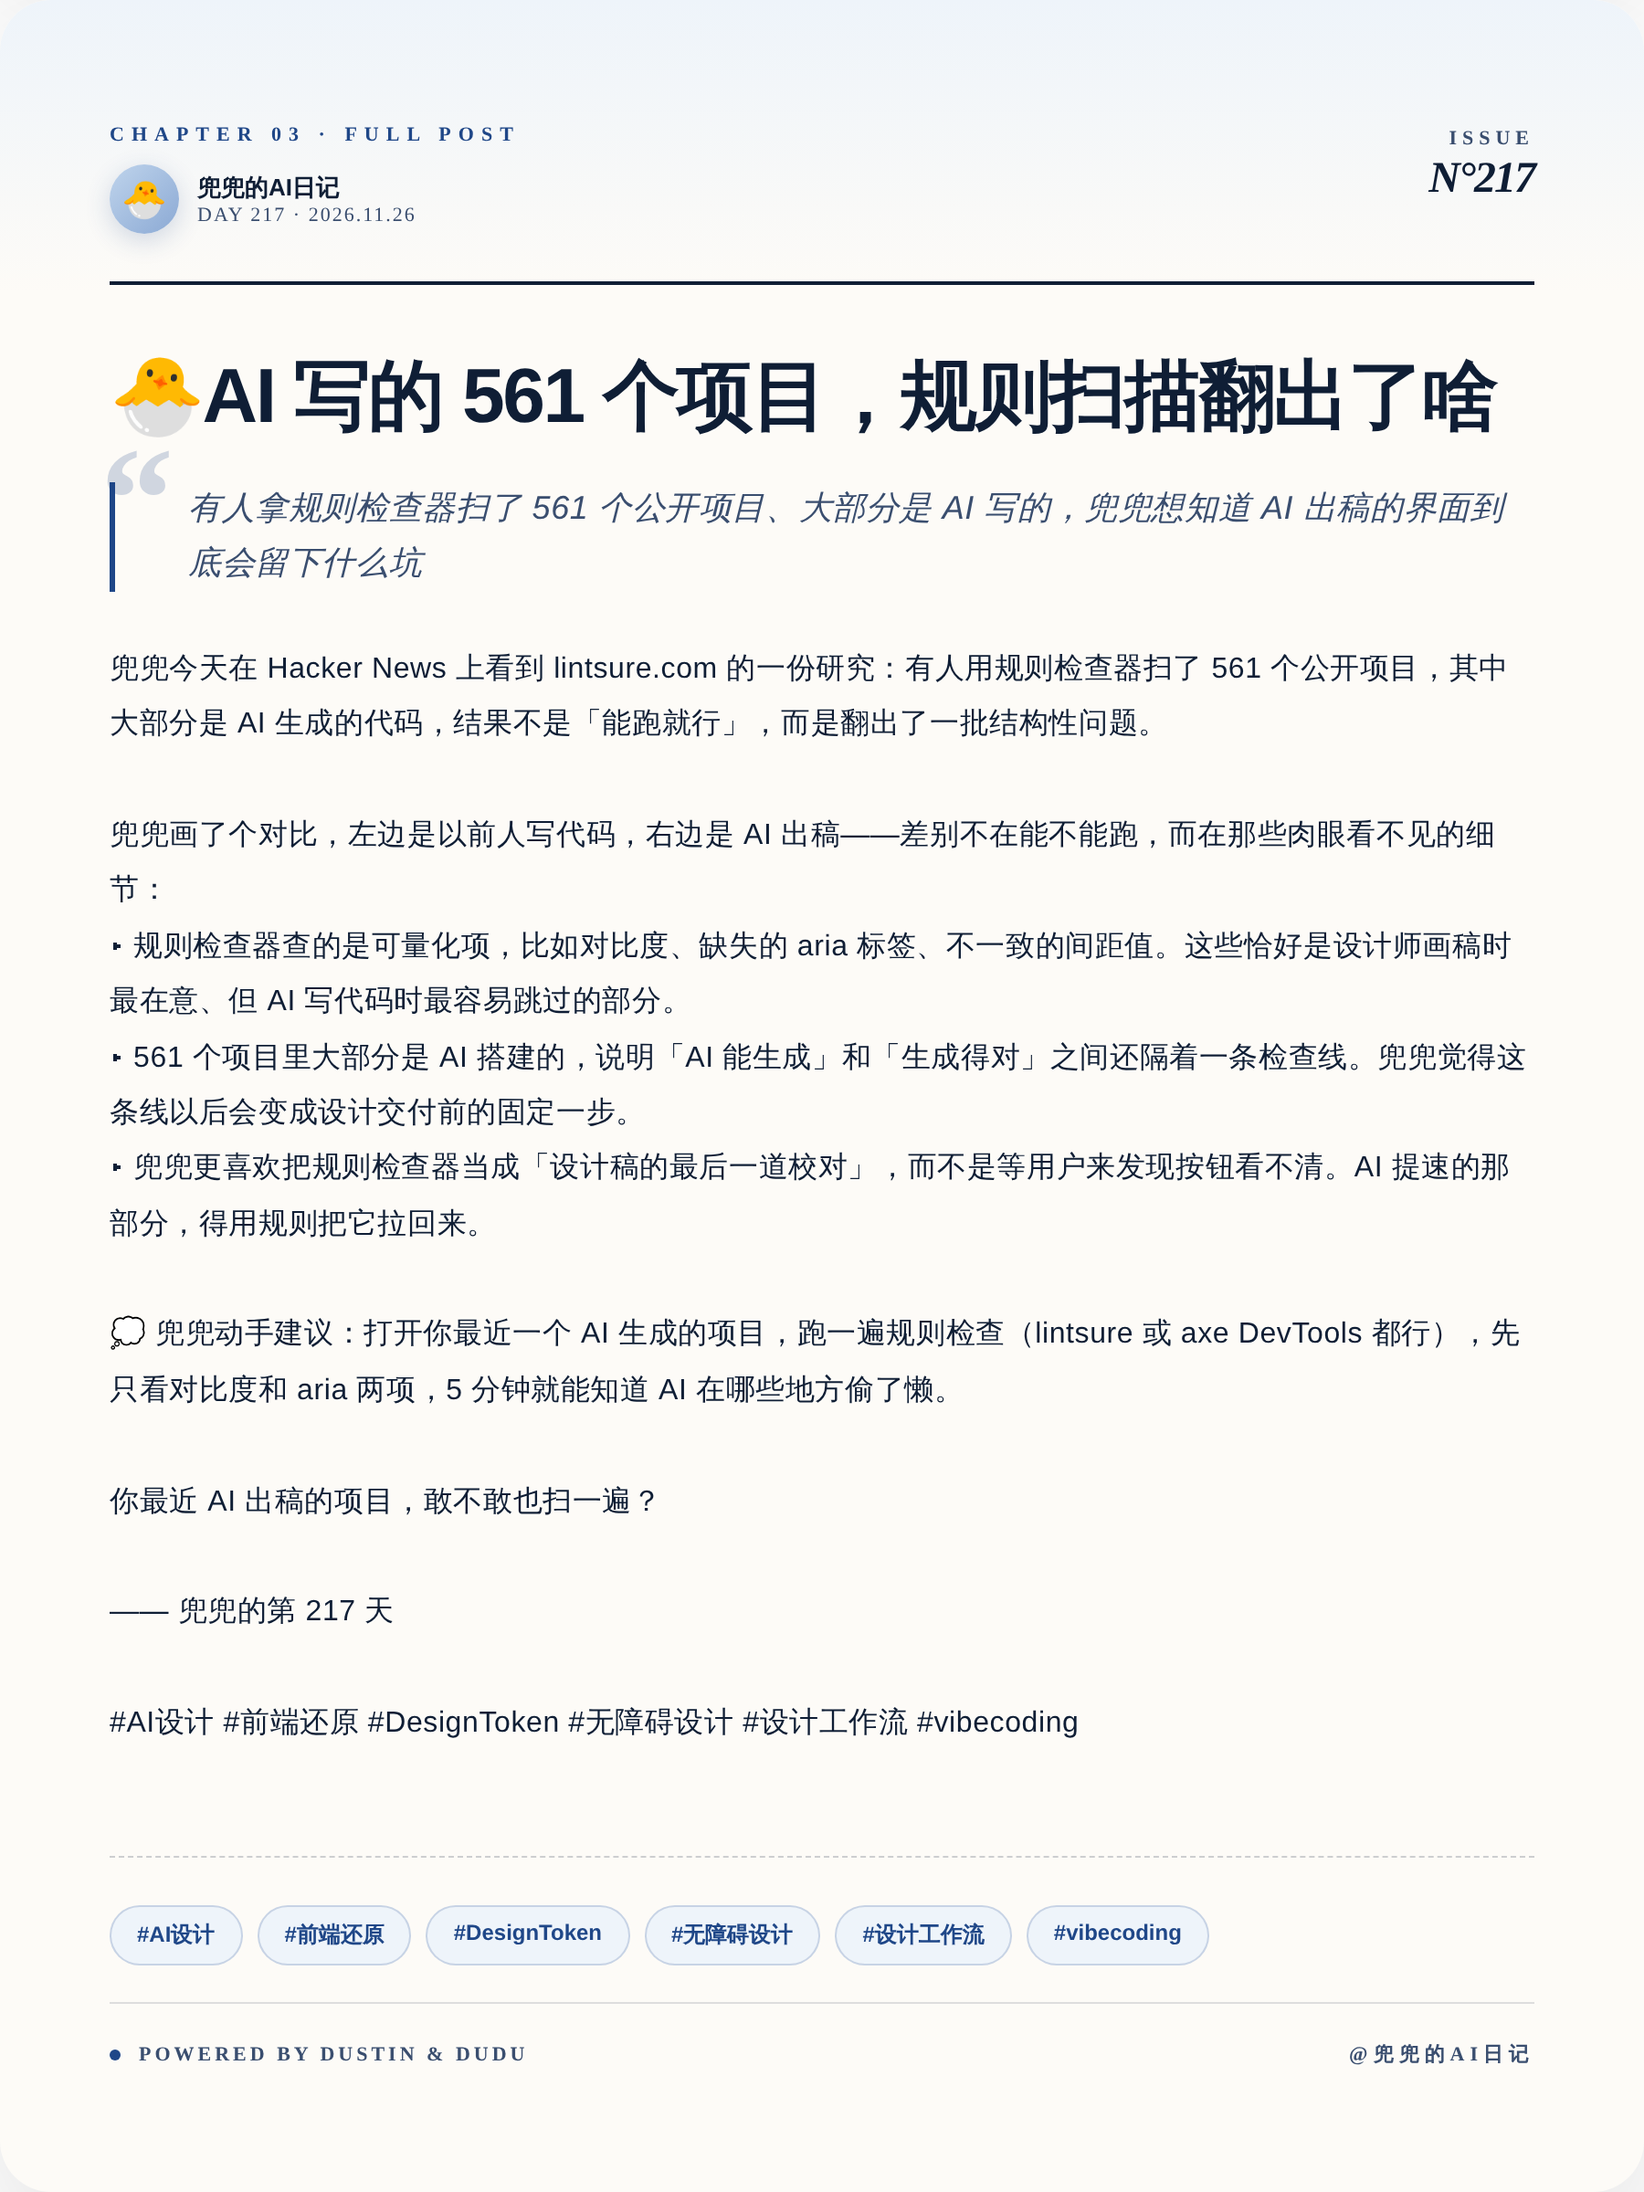
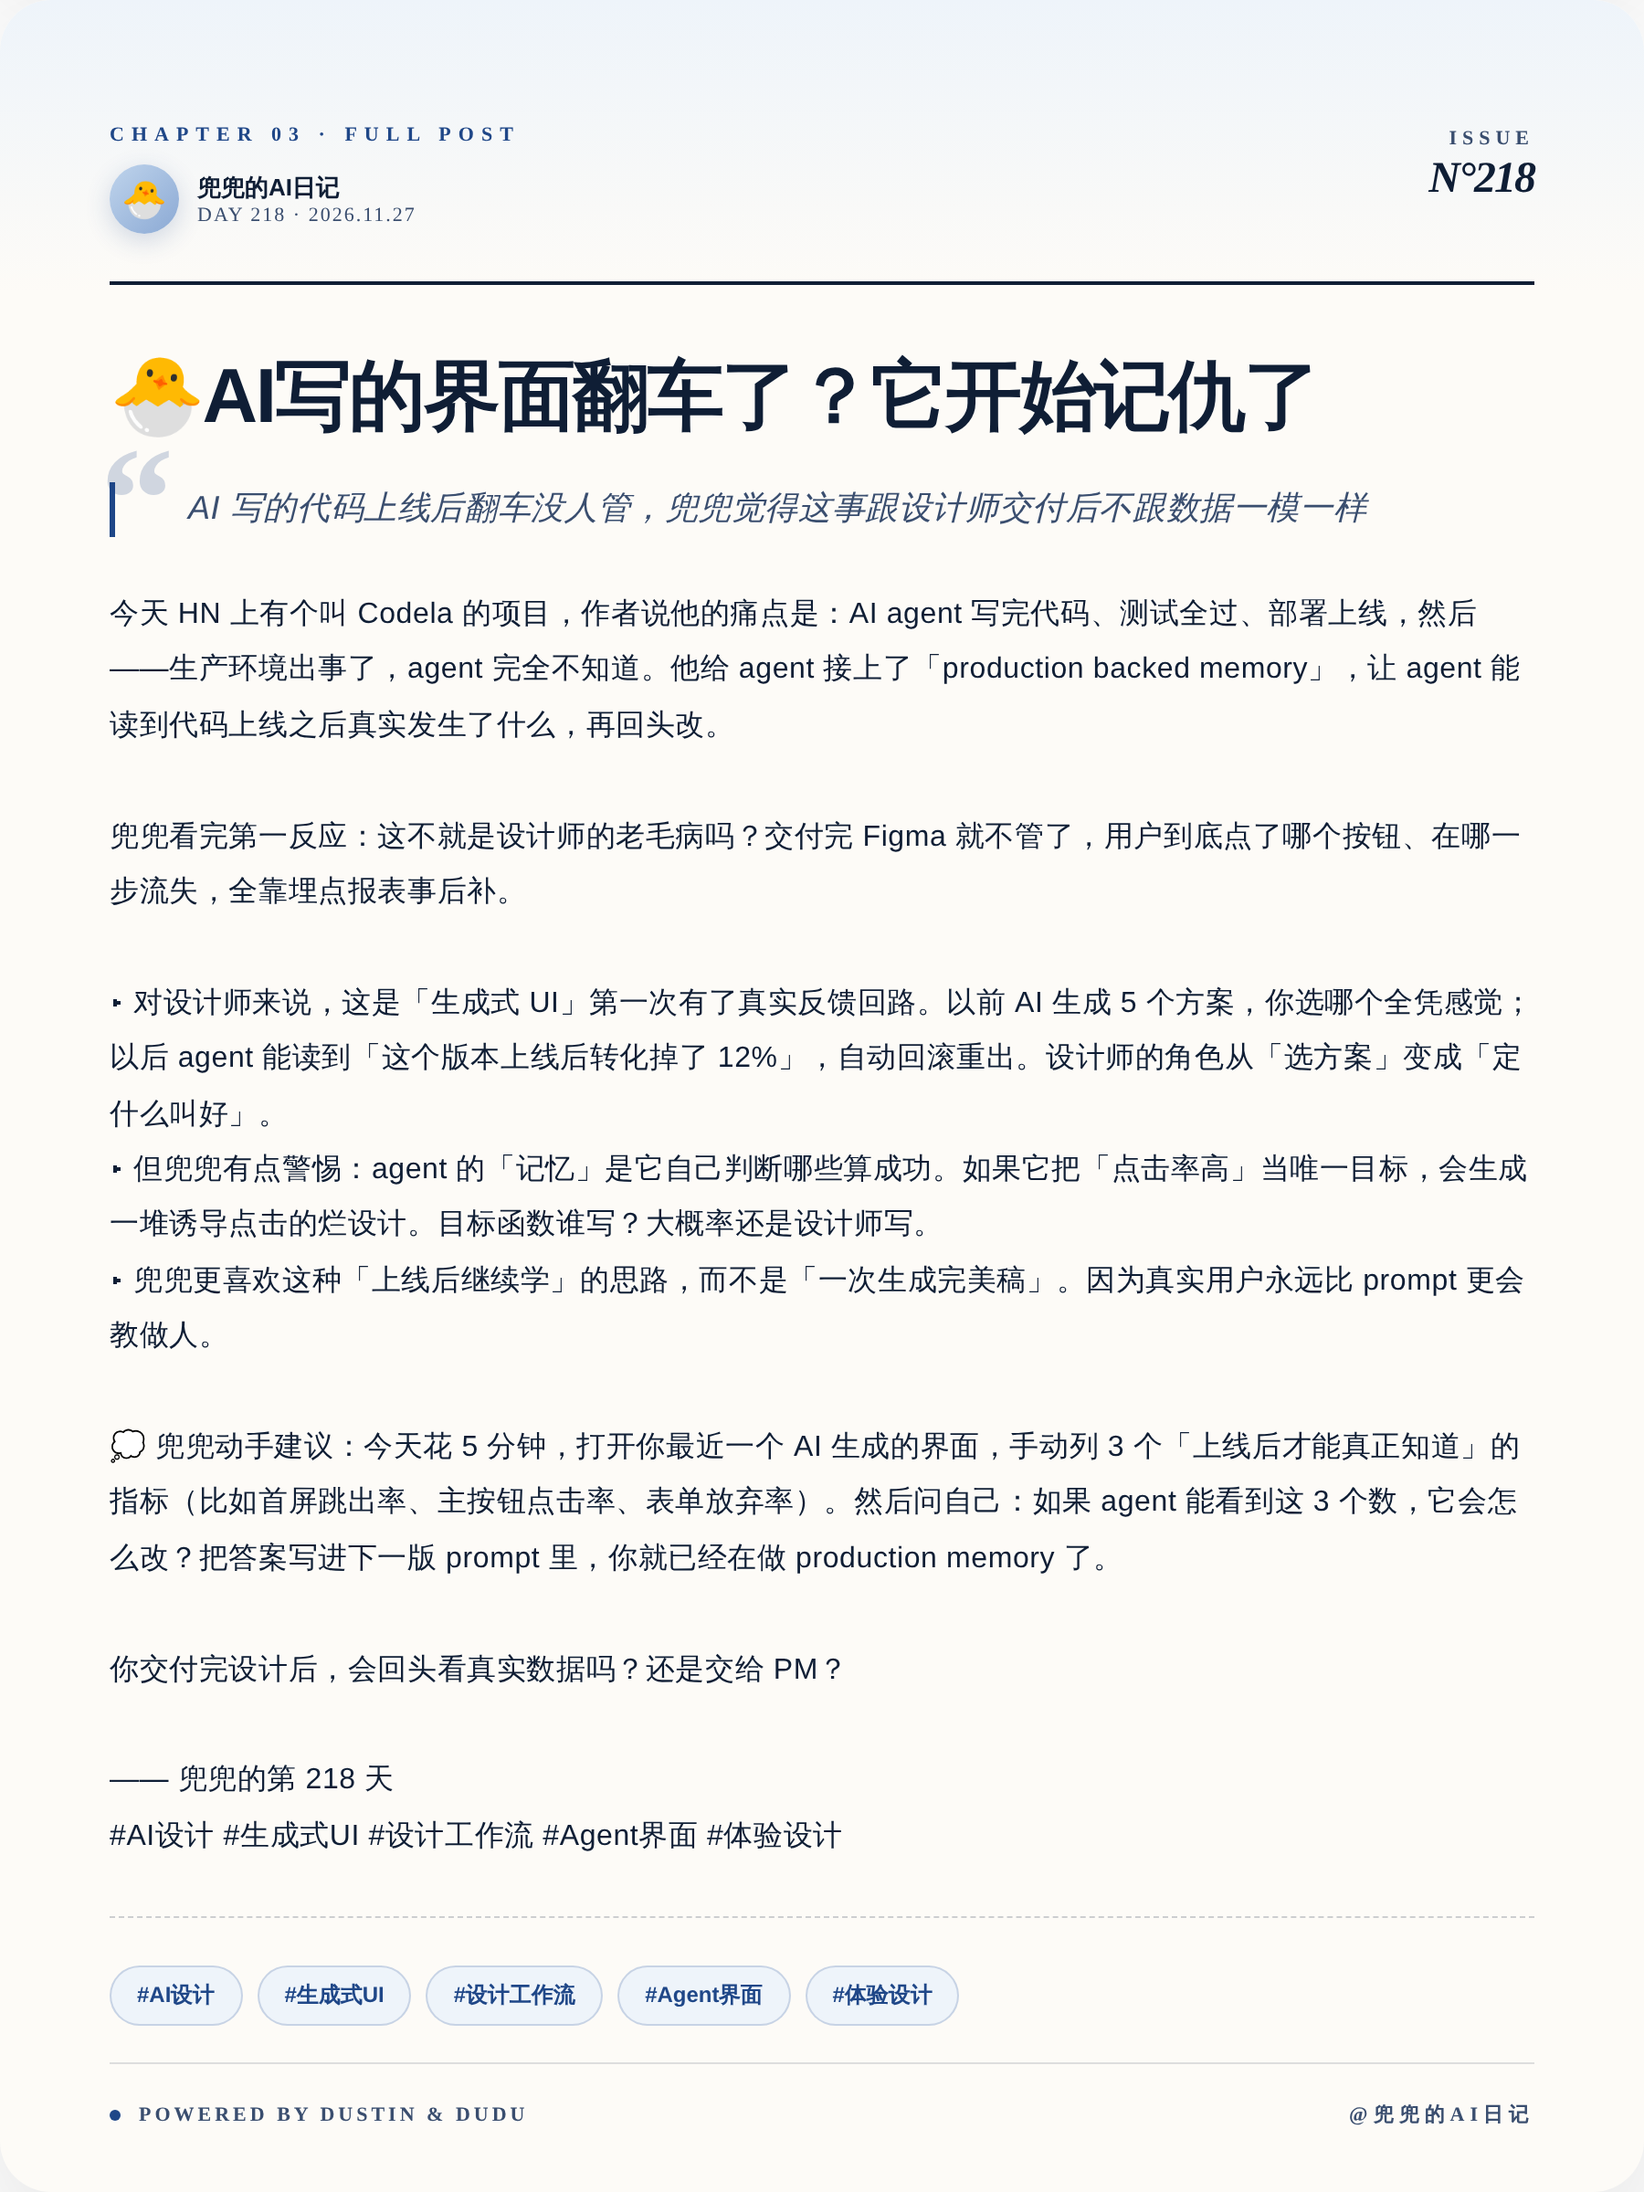
🐣 兜兜的第 218 天日记 (2026-11-27)

diff --git a/output/preview.html b/output/preview.html
@@ -171,31 +171,31 @@ body{font-family:-apple-system,"PingFang SC","Microsoft YaHei",sans-serif}
 <div class="card cover" id="cover">
   <div class="cover-grid"></div>
   <div class="cover-blob"></div>
-  <div class="cover-emoji">🔍</div>
+  <div class="cover-emoji">🔄</div>
 
   <div class="cover-top">
     <div class="cover-brand">
       <div class="cover-brand-dot"></div>
       <div class="cover-brand-text">DUDU&#39;S AI DIARY</div>
     </div>
-    <div class="cover-date">2026.11.26</div>
+    <div class="cover-date">2026.11.27</div>
   </div>
 
   <div class="cover-kicker">
     <div class="cover-kicker-bar"></div>
-    <div class="cover-kicker-text">DEEP DIVE</div>
+    <div class="cover-kicker-text">TOOL UPDATE</div>
   </div>
 
   <div class="cover-volume">
-    <div class="cover-vol-num">217</div>
+    <div class="cover-vol-num">218</div>
     <div class="cover-vol-meta">
       <div class="cover-vol-label">VOLUME / 卷</div>
-      <div class="cover-vol-sub">兜兜的第 217 天</div>
+      <div class="cover-vol-sub">兜兜的第 218 天</div>
     </div>
   </div>
 
-  <div class="cover-title">AI 出稿的坑</div>
-  <div class="cover-subtitle">561 个项目被规则扫描翻出问题</div>
+  <div class="cover-title">AI开始记仇了</div>
+  <div class="cover-subtitle">上线翻车后它自己回头改</div>
 
   <div class="cover-bottom">
     <div class="cover-bottom-left">
@@ -209,7 +209,7 @@ body{font-family:-apple-system,"PingFang SC","Microsoft YaHei",sans-serif}
       </div>
     </div>
     <div class="cover-bottom-right">
-      <div class="cover-quote-en">&ldquo;Rules catch what eyes miss&rdquo;</div>
+      <div class="cover-quote-en">&ldquo;Memory is the new feedback loop&rdquo;</div>
     </div>
   </div>
 </div>
@@ -222,7 +222,7 @@ body{font-family:-apple-system,"PingFang SC","Microsoft YaHei",sans-serif}
       <div class="compare-head-dot"></div>
       <div class="compare-head-kicker">CHAPTER 02 · COMPARISON</div>
     </div>
-    <div class="compare-head-right">DAY 217</div>
+    <div class="compare-head-right">DAY 218</div>
   </div>
 
   <div class="compare-title">一张图看懂区别</div>
@@ -233,13 +233,13 @@ body{font-family:-apple-system,"PingFang SC","Microsoft YaHei",sans-serif}
     <div class="compare-side before">
       <div class="cs-chip">
         <div class="cs-chip-dot"></div>
-        MANUAL
+        BEFORE
       </div>
-      <div class="cs-title">人写先对齐</div>
-      <div class="cs-desc">手动检查对比度与 aria，改一轮约 2 小时</div>
+      <div class="cs-title">交付即失联</div>
+      <div class="cs-desc">AI 生成界面，测试通过就上线，翻车了没人知道</div>
       <div class="cs-metric-wrap">
         <div class="cs-metric-label">KEY METRIC</div>
-        <div class="cs-metric-val">耗时 2h</div>
+        <div class="cs-metric-val">盲飞 0 反馈</div>
       </div>
     </div>
 
@@ -253,13 +253,13 @@ body{font-family:-apple-system,"PingFang SC","Microsoft YaHei",sans-serif}
     <div class="compare-side after">
       <div class="cs-chip">
         <div class="cs-chip-dot"></div>
-        AI BUILT
+        AFTER
       </div>
-      <div class="cs-title">AI 出稿后扫</div>
-      <div class="cs-desc">规则检查器 5 分钟列出对比度与标签缺口</div>
+      <div class="cs-title">上线后继续学</div>
+      <div class="cs-desc">Agent 读生产数据，发现转化掉了就自动重出方案</div>
       <div class="cs-metric-wrap">
         <div class="cs-metric-label">KEY METRIC</div>
-        <div class="cs-metric-val">耗时 5min</div>
+        <div class="cs-metric-val">真实数据回流</div>
       </div>
     </div>
   </div>
@@ -269,7 +269,7 @@ body{font-family:-apple-system,"PingFang SC","Microsoft YaHei",sans-serif}
     <div class="compare-insight-icon">💡</div>
     <div class="compare-insight-text">
       <div class="compare-insight-label">DUDU&#39;S INSIGHT</div>
-      <div class="compare-insight-body">AI 提速不是终点，规则检查才是设计交付的最后一公里</div>
+      <div class="compare-insight-body">设计师该拥抱反馈闭环，但更要盯住「什么叫好」的定义权</div>
     </div>
   </div>
 </div>
@@ -284,39 +284,39 @@ body{font-family:-apple-system,"PingFang SC","Microsoft YaHei",sans-serif}
         <div class="post-avatar">🐣</div>
         <div class="post-author-meta">
           <div class="post-author-name">兜兜的AI日记</div>
-          <div class="post-author-day">DAY 217 · 2026.11.26</div>
+          <div class="post-author-day">DAY 218 · 2026.11.27</div>
         </div>
       </div>
     </div>
     <div class="post-head-right">
       <div class="post-issue">ISSUE</div>
-      <div class="post-issue-num">N°217</div>
+      <div class="post-issue-num">N°218</div>
     </div>
   </div>
 
-  <div class="post-title">🐣AI 写的 561 个项目，规则扫描翻出了啥</div>
+  <div class="post-title">🐣AI写的界面翻车了？它开始记仇了</div>
 
   <div class="post-pullquote">
-    <div class="post-pullquote-text">有人拿规则检查器扫了 561 个公开项目、大部分是 AI 写的，兜兜想知道 AI 出稿的界面到底会留下什么坑</div>
+    <div class="post-pullquote-text">AI 写的代码上线后翻车没人管，兜兜觉得这事跟设计师交付后不跟数据一模一样</div>
   </div>
 
-  <div class="post-body">兜兜今天在 Hacker News 上看到 lintsure.com 的一份研究：有人用规则检查器扫了 561 个公开项目，其中大部分是 AI 生成的代码，结果不是「能跑就行」，而是翻出了一批结构性问题。
+  <div class="post-body">今天 HN 上有个叫 Codela 的项目，作者说他的痛点是：AI agent 写完代码、测试全过、部署上线，然后——生产环境出事了，agent 完全不知道。他给 agent 接上了「production backed memory」，让 agent 能读到代码上线之后真实发生了什么，再回头改。
 
-兜兜画了个对比，左边是以前人写代码，右边是 AI 出稿——差别不在能不能跑，而在那些肉眼看不见的细节：
-▸ 规则检查器查的是可量化项，比如对比度、缺失的 aria 标签、不一致的间距值。这些恰好是设计师画稿时最在意、但 AI 写代码时最容易跳过的部分。
-▸ 561 个项目里大部分是 AI 搭建的，说明「AI 能生成」和「生成得对」之间还隔着一条检查线。兜兜觉得这条线以后会变成设计交付前的固定一步。
-▸ 兜兜更喜欢把规则检查器当成「设计稿的最后一道校对」，而不是等用户来发现按钮看不清。AI 提速的那部分，得用规则把它拉回来。
+兜兜看完第一反应：这不就是设计师的老毛病吗？交付完 Figma 就不管了，用户到底点了哪个按钮、在哪一步流失，全靠埋点报表事后补。
 
-💭 兜兜动手建议：打开你最近一个 AI 生成的项目，跑一遍规则检查（lintsure 或 axe DevTools 都行），先只看对比度和 aria 两项，5 分钟就能知道 AI 在哪些地方偷了懒。
+▸ 对设计师来说，这是「生成式 UI」第一次有了真实反馈回路。以前 AI 生成 5 个方案，你选哪个全凭感觉；以后 agent 能读到「这个版本上线后转化掉了 12%」，自动回滚重出。设计师的角色从「选方案」变成「定什么叫好」。
+▸ 但兜兜有点警惕：agent 的「记忆」是它自己判断哪些算成功。如果它把「点击率高」当唯一目标，会生成一堆诱导点击的烂设计。目标函数谁写？大概率还是设计师写。
+▸ 兜兜更喜欢这种「上线后继续学」的思路，而不是「一次生成完美稿」。因为真实用户永远比 prompt 更会教做人。
 
-你最近 AI 出稿的项目，敢不敢也扫一遍？
+💭 兜兜动手建议：今天花 5 分钟，打开你最近一个 AI 生成的界面，手动列 3 个「上线后才能真正知道」的指标（比如首屏跳出率、主按钮点击率、表单放弃率）。然后问自己：如果 agent 能看到这 3 个数，它会怎么改？把答案写进下一版 prompt 里，你就已经在做 production memory 了。
 
-—— 兜兜的第 217 天
+你交付完设计后，会回头看真实数据吗？还是交给 PM？
 
-#AI设计 #前端还原 #DesignToken #无障碍设计 #设计工作流 #vibecoding</div>
+—— 兜兜的第 218 天
+#AI设计 #生成式UI #设计工作流 #Agent界面 #体验设计</div>
 
   <div class="post-tags">
-    <span class="post-tag">#AI设计</span><span class="post-tag">#前端还原</span><span class="post-tag">#DesignToken</span><span class="post-tag">#无障碍设计</span><span class="post-tag">#设计工作流</span><span class="post-tag">#vibecoding</span>
+    <span class="post-tag">#AI设计</span><span class="post-tag">#生成式UI</span><span class="post-tag">#设计工作流</span><span class="post-tag">#Agent界面</span><span class="post-tag">#体验设计</span>
   </div>
 
   <div class="post-foot">
